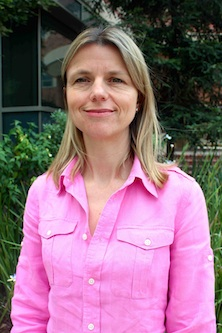
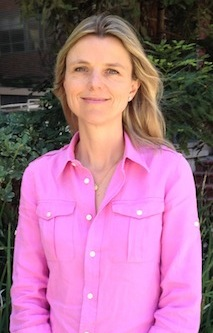
Rename files to all lower case and remove orphan files

diff --git a/eri.php b/eri.php
@@ -11,7 +11,7 @@
 <?php include('header.php'); ?>
 <h1>Environmental Impact Indicators</h1>
 
-Each facility’s Cal EcoMaps Environmental Impact Score was based on five environmental impact indicators:  <br><br><a href="toaltoxicreleases.php" target="_blank">1)the total amount of toxic releases</a> <br> <a href="rpkr.php" target="_blank">2)toxic releases per $1000 of revenue</a> <br> <a href="toxicity.php" target="_blank">3)toxicity of total releases</a> <br> <a href="cancermethod.php" target="_blank">4)regional contribution to lifetime cancer risk due to air emissions</a> <br> <a href="ppwma.php" target="_blank">5) waste managed through recycling, energy recovery, and treatment</a> <br><br>These five variables were chosen because they represent the impact of each facility’s toxic releases on the environment and public health. 
+Each facility’s Cal EcoMaps Environmental Impact Score was based on five environmental impact indicators:  <br><br><a href="totaltoxicreleases.php" target="_blank">1)the total amount of toxic releases</a> <br> <a href="rpkr.php" target="_blank">2)toxic releases per $1000 of revenue</a> <br> <a href="toxicity.php" target="_blank">3)toxicity of total releases</a> <br> <a href="cancermethod.php" target="_blank">4)regional contribution to lifetime cancer risk due to air emissions</a> <br> <a href="ppwma.php" target="_blank">5) waste managed through recycling, energy recovery, and treatment</a> <br><br>These five variables were chosen because they represent the impact of each facility’s toxic releases on the environment and public health. 
 
 <br><br>
 <div id="footer"> <?php include('footer.php'); ?> </div>

diff --git a/eismethodology.php b/eismethodology.php
@@ -16,7 +16,7 @@ The goal of Cal EcoMaps is to better understand and communicate toxic chemical r
 <h2>What does the Cal EcoMaps EIS Measure?</h2> <br><br>
 
 
-Facilities with a lower Cal EcoMaps EIS have less impact on the environment and public health based on the five environmental impact indicators: <a href="toaltoxicreleases.php" target="_blank">1)</a> the total amount of toxic releases, <a href="rpkr.php" target="_blank">2)</a> toxic releases per $1000 of revenue, <a href="toxicity.php" target="_blank">3)</a> toxicity of total releases, <a href="cancermethod.php" target="_blank">4)</a> regional contribution to lifetime cancer risk due to air emissions, and <a href="ppwma.php" target="_blank">5)</a> waste managed through recycling, energy recovery, and treatment. The Cal EcoMaps EIS is found on facility profiles as well as by industry here.  
+Facilities with a lower Cal EcoMaps EIS have less impact on the environment and public health based on the five environmental impact indicators: <a href="totaltoxicreleases.php" target="_blank">1)</a> the total amount of toxic releases, <a href="rpkr.php" target="_blank">2)</a> toxic releases per $1000 of revenue, <a href="toxicity.php" target="_blank">3)</a> toxicity of total releases, <a href="cancermethod.php" target="_blank">4)</a> regional contribution to lifetime cancer risk due to air emissions, and <a href="ppwma.php" target="_blank">5)</a> waste managed through recycling, energy recovery, and treatment. The Cal EcoMaps EIS is found on facility profiles as well as by industry here.  
 <br><br>
 <h2>How was the Cal EcoMaps EIS calculated? </h2><br><br>
 

diff --git a/PetroScores.php b/PetroScores.php
@@ -11,7 +11,7 @@
 
 <?php include('header.php'); ?>
 <h2>Facilities with higher scores have a greater impact on the environment and public health.<a href="eismethodology.php" target="_blank">The Cal EcoMaps Environmental Impact Score</a> was determined for facilities within their own industry. </h2> <br><br>
-Download PDF: <a href="assets/downloads/ranking/PetroScores.pdf" download>Download</a><br><br>
+Download PDF: <a href="assets/downloads/ranking/petroscores.pdf" download>Download</a><br><br>
 <iframe src="https://docs.google.com/spreadsheets/d/1sw92n4Bmq-_3cEpkf5tKtz6Yy4CVJU3SJLT0dmpqAgs/pubhtml?widget=true&amp;headers=false" width=100% height=650></iframe>
 <br><br><br><br>
 <div id="footer"> <?php include('footer.php'); ?> </div>

diff --git a/PMScores.php b/PMScores.php
@@ -11,7 +11,7 @@
 
 <?php include('header.php'); ?>
 <h2>Facilities with higher scores have a greater impact on the environment and public health.<a href="eismethodology.php" target="_blank">The Cal EcoMaps Environmental Impact Score</a> was determined for facilities within their own industry. </h2> <br><br>
-Download PDF: <a href="assets/downloads/ranking/PMScores.pdf" download>Download</a><br><br>
+Download PDF: <a href="assets/downloads/ranking/pmscores.pdf" download>Download</a><br><br>
 <iframe src="https://docs.google.com/spreadsheets/d/1wv-HCosnVK9wU0LjK8OqVcG2hKaF28PdSsBJxtDHECQ/pubhtml?widget=true&amp;headers=false" width=100% height=800></iframe>
 <br><br><br><br>
 <div id="footer"> <?php include('footer.php'); ?> </div>

diff --git a/FMscores.php b/FMscores.php
@@ -14,7 +14,7 @@
 
 <h2>Facilities with higher scores have a greater impact on the environment and public health.<a href="eismethodology.php" target="_blank">The Cal EcoMaps Environmental Impact Score</a> was determined for facilities within their own industry. </h2> <br><br>
 
-Download PDF: <a href="assets/downloads/ranking/FMScores.pdf" download>Download</a><br><br>
+Download PDF: <a href="assets/downloads/ranking/fmscores.pdf" download>Download</a><br><br>
 <iframe src="https://docs.google.com/spreadsheets/d/1ldDdzo58hCtl4MZsrHJneL5UGWNJOfJVmTRjpRsINwo/pubhtml?widget=true&amp;headers=false" width=100% height=1400></iframe>
 
 <div id="footer"> <?php include('footer.php'); ?> </div>

diff --git a/ChemScores.php b/ChemScores.php
@@ -11,7 +11,7 @@
 
 <?php include('header.php'); ?>
 <h2>Facilities with higher scores have a greater impact on the environment and public health.<a href="eismethodology.php" target="_blank">The Cal EcoMaps Environmental Impact Score</a> was determined for facilities within their own industry. </h2> <br><br>
-Download PDF: <a href="assets/downloads/ranking/ChemScores.pdf" download>Download</a><br><br>
+Download PDF: <a href="assets/downloads/ranking/chemscores.pdf" download>Download</a><br><br>
 <iframe src="https://docs.google.com/spreadsheets/d/1ahvCMARGoADEu8lsdUmRoAKPOk_1r3ir-Va559HAmv8/pubhtml?widget=true&amp;headers=false" width=100%, height=1700></iframe>
 <br><br><br><br>
 

diff --git a/header.php b/header.php
@@ -40,7 +40,7 @@
 				  <li class="divider"></li>
 				  <li><t><a href="eri.php" style="color: DarkGreen">Environmental Impact Indicators</a></t></li>
 				  <li class="divider"></li>
-                  <li><a href="toaltoxicreleases.php">Total Toxic Releases</a></li>
+                  <li><a href="totaltoxicreleases.php">Total Toxic Releases</a></li>
                   <li><a href="rpkr.php">Releases per $1000 Revenue</a></li>
 				  <li><a href="toxicity.php">Toxicity of Total Releases</a></li>
 				  <li><a href="cancermethod.php">Regional Contribution to Lifetime Cancer Risk </a></li>

diff --git a/FMranking.php b/FMranking.php
@@ -240,10 +240,10 @@
       google.setOnLoadCallback(drawVisualization);
     </script>
 </head>
-<body>
+<body><a href="totaltoxicreleases.php" target="_blank">[?]</a>
 <div class="wrapper"> 
 <?php include('header.php'); ?>
-<div align="center"><h2>Total Toxic Releases <a href="TOTALTOXICRELEASES.php " target="_blank">[?]</a></h2></div>
+<div align="center"><h2>Total Toxic Releases </h2></div>
 <div id="ToxicReleases"></div><br>
 <div align="center"><h2>Releases per $1000 Revenue <a href="rpkr.php" target="_blank">[?]</a></h2></div>
 <div id="Revenue"></div><br>

diff --git a/Chemicalsranking.php b/Chemicalsranking.php
@@ -236,7 +236,7 @@
 <body>
 <div class="wrapper"> 
 <?php include('header.php'); ?>
-<div align="center"><h2>Total Toxic Releases <a href="TOTALTOXICRELEASES.php " target="_blank">[?]</a></h2></div>
+<div align="center"><h2>Total Toxic Releases <a href="totaltoxicreleases.php" target="_blank">[?]</a></h2></div>
 <div id="ToxicReleases"></div><br>
 <div align="center"><h2>Releases per $1000 Revenue <a href="rpkr.php" target="_blank">[?]</a></h2></div>
 <div id="Revenue"></div><br>

diff --git a/PMranking.php b/PMranking.php
@@ -235,7 +235,7 @@
 <body>
 <div class="wrapper"> 
 <?php include('header.php'); ?>
-<div align="center"><h2>Total Toxic Releases <a href="TOTALTOXICRELEASES.php " target="_blank">[?]</a></h2></div>
+<div align="center"><h2>Total Toxic Releases <a href="totaltoxicreleases.php" target="_blank">[?]</a></h2></div>
 <div id="ToxicReleases"></div><br>
 <div align="center"><h2>Releases per $1000 Revenue <a href="rpkr.php" target="_blank">[?]</a></h2></div>
 <div id="Revenue"></div><br>

diff --git a/Petroranking.php b/Petroranking.php
@@ -229,7 +229,7 @@
 <body>
 <div class="wrapper"> 
 <?php include('header.php'); ?>
-<div align="center"><h2>Total Toxic Releases <a href="TOTALTOXICRELEASES.php " target="_blank">[?]</a></h2></div>
+<div align="center"><h2>Total Toxic Releases <a href="totaltoxicreleases.php" target="_blank">[?]</a></h2></div>
 <div id="ToxicReleases"></div><br>
 <div align="center"><h2>Releases per $1000 Revenue <a href="rpkr.php" target="_blank">[?]</a></h2></div>
 <div id="Revenue"></div><br>

diff --git a/ABOUTUS.php b/ABOUTUS.php
@@ -30,7 +30,7 @@
 <img class = "HorizontalLine" src = "assets/img/line.jpg" />
 <br>
 
-<img class = "indivBioPic" id ="floatRight" src = "assets/img/delmas4.jpg" alt = "Delmas" />
+<img class = "indivBioPic" id ="floatRight" src = "assets/img/delmas.jpg" alt = "Delmas" />
 
 <div class = "TextBox" id = "ImageRight">
 
